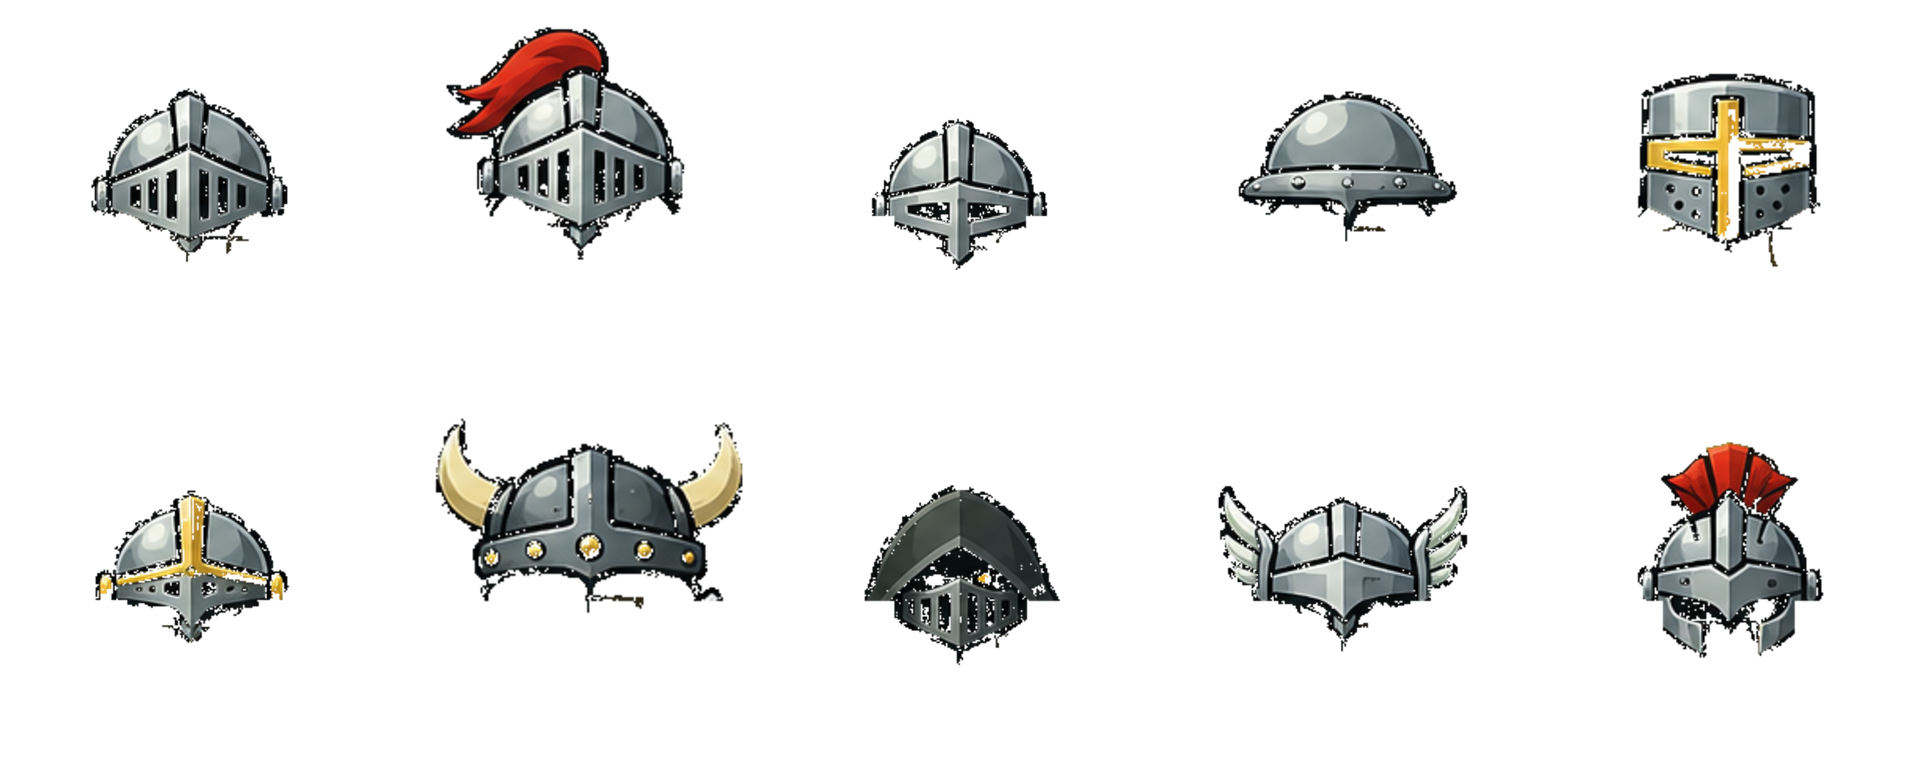
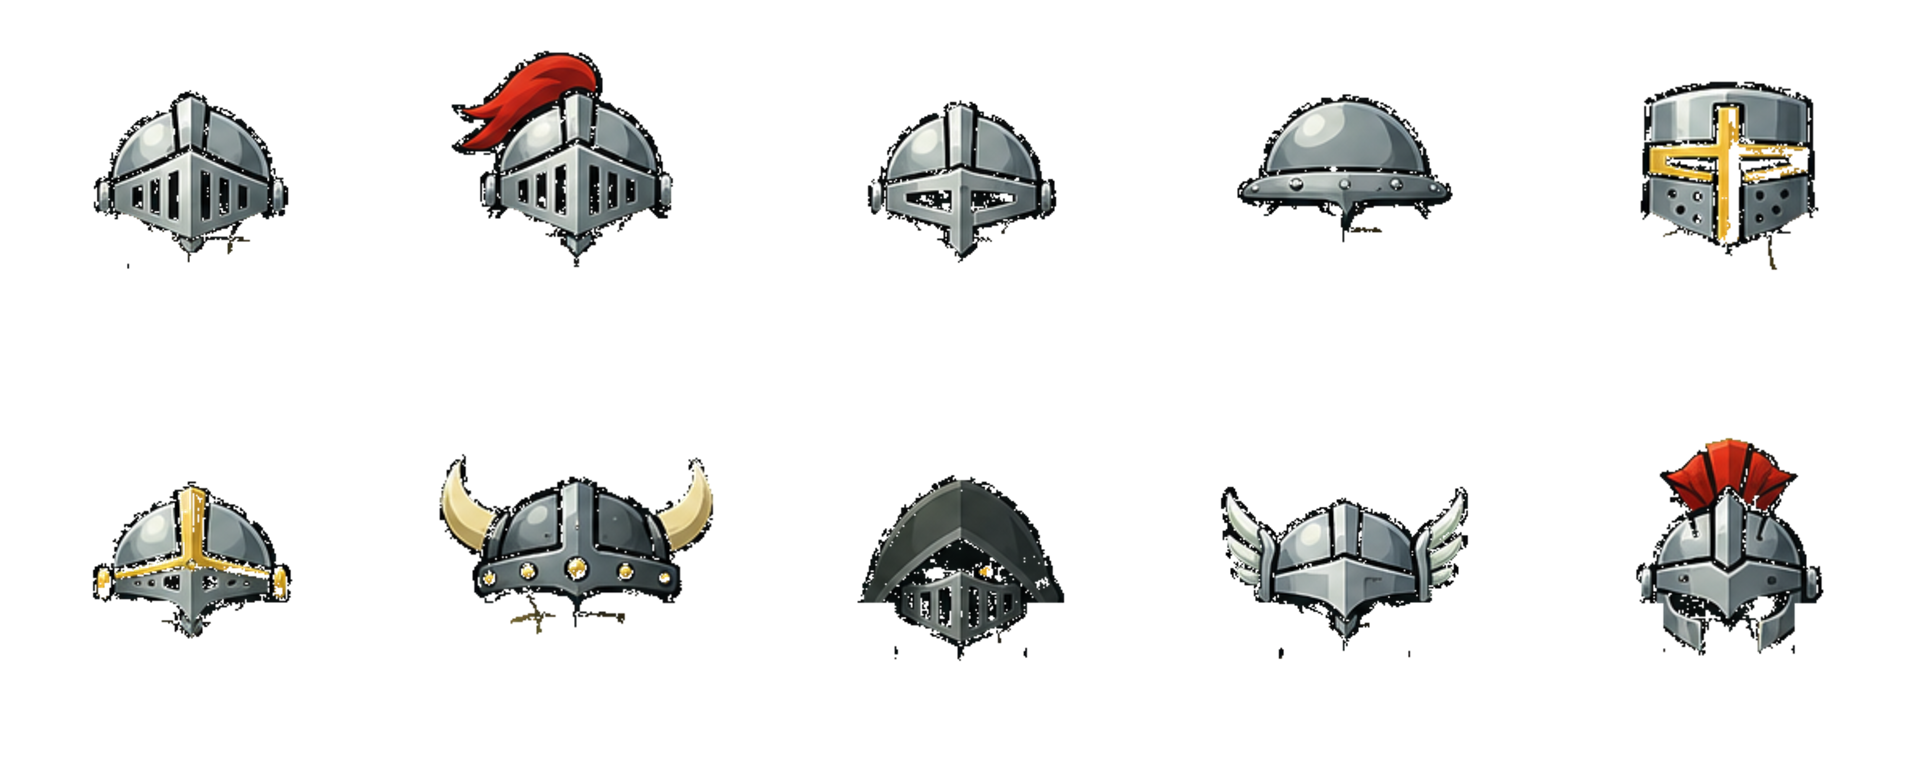
🪖 장비 개편: 가슴 갑옷 제거 + 어깨갑옷 재질별 매칭 + 투구·공 비율 원본 싱크
유저 피드백 반영: ①가슴 갑옷(공용 gear_armor) 삭제 — 투구+어깨갑옷만
②원 피팅을 아웃라이어 제거 반복으로 정밀화(일부 셀 반지름이 22%까지 과대해
투구가 작게 나오던 싱크 문제 해결) ③어깨는 컴포넌트+존 하이브리드로 추출해
gear_shoulders.png 시트 신설(투구와 동일 정규화). 파괴: 어깨 먼저 → 투구 → 본체.

diff --git a/index.html b/index.html
@@ -5067,30 +5067,25 @@ function drawMatStatic(x, y, sz, mat, esc, c, broken = 0) {
 }
 // 장비 (밴드 후반부 대체): 미니멀 투구·갑옷 — 프로시저럴·아트 몹 공용 (난이도 신호는 아트 위에도 얹는다)
 // gearCount: 0=맨몸 1=투구 2=투구+갑옷. broken: 부서진 개수(갑옷 먼저, 그다음 투구) — 부서진 장비는 그리지 않는다.
-// 🎨 유저 제작 아트 (2026-08-08): 투구 = art4 10종을 재질별 매칭 (①물풍선→⑩, 천체는 ⑩ 공유 — 유저 지정 "1번부터 물풍선").
-//    gear_helms.png = 5×2 시트, 셀 384², 공 기준 중심 (192,230)·반지름 120으로 정규화 추출(원본 art4에서 색상 키잉+원 피팅).
-//    갑옷 = gear_armor.png (1024², 지름 800 원 기준 공용 — 어깨 조각은 추출 품질이 고르지 않아 공용 유지).
-//    GEAR_ART_ON = false 한 줄로 프로시저럴 원복.
+// 🎨 유저 제작 아트 (2026-08-08): art4 10종을 재질별 매칭 (①물풍선→⑩, 천체는 ⑩ 공유 — 유저 지정 "1번부터 물풍선").
+//    투구 = gear_helms.png / 어깨갑옷 = gear_shoulders.png — 둘 다 5×2 시트, 셀 384², 공 기준 중심 (192,230)·반지름 120 정규화
+//    (원본 art4에서 색상 키잉 + 하단 호 원 피팅(아웃라이어 제거) + 컴포넌트/존 분리로 추출 — 비율은 원본과 1:1 싱크).
+//    가슴 갑옷은 유저 지정으로 미사용. GEAR_ART_ON = false 한 줄로 프로시저럴 원복.
 const GEAR_ART_ON = true;
-const GEARART = { helms: null, armor: null, n: 0 };
+const GEARART = { helms: null, shoulders: null, n: 0 };
 (function gearLoadArt() {
   if (!GEAR_ART_ON) return;
-  for (const k of ['helms', 'armor']) {
+  for (const k of ['helms', 'shoulders']) {
     const im = new Image();
     im.onload = () => { GEARART[k] = im; if (++GEARART.n === 2) Object.keys(matSprites).forEach(kk => delete matSprites[kk]); }; // 로드 완료 → 구운 스프라이트 무효화
     im.src = 'assets/gear_' + k + '.png';
   }
 })();
 function drawMonGear(x, y, sz, gearCount, broken, mat) {
-  if (GEARART.n === 2) {
-    if (gearCount >= 2 && broken < 1) { // 갑옷: 지름 800 기준 → k = sz/400, 이미지 중심(512,512) = 공 중심
-      const k = sz / 400;
-      ctx.drawImage(GEARART.armor, x - 512 * k, y - 512 * k, 1024 * k, 1024 * k);
-    }
-    if (gearCount >= 1 && broken < gearCount) { // 투구: 재질별 셀 (반지름 120 기준)
-      const idx = Math.min(9, mat | 0), k = sz / 120;
-      ctx.drawImage(GEARART.helms, (idx % 5) * 384, (idx / 5 | 0) * 384, 384, 384, x - 192 * k, y - 230 * k, 384 * k, 384 * k);
-    }
+  if (GEARART.n === 2) { // 시트 셀 공용 매핑: 반지름 120 → k = sz/120, 셀 내 공 중심 (192,230)
+    const idx = Math.min(9, mat | 0), k = sz / 120, sx = (idx % 5) * 384, sy = (idx / 5 | 0) * 384;
+    if (gearCount >= 2 && broken < 1) ctx.drawImage(GEARART.shoulders, sx, sy, 384, 384, x - 192 * k, y - 230 * k, 384 * k, 384 * k); // 어깨갑옷 (먼저 부서짐)
+    if (gearCount >= 1 && broken < gearCount) ctx.drawImage(GEARART.helms, sx, sy, 384, 384, x - 192 * k, y - 230 * k, 384 * k, 384 * k); // 투구
     return;
   }
   if (gearCount >= 2 && broken < 1) { // 갑옷: 하단 ~40% 판금 (원에 클립된 하단 현)
